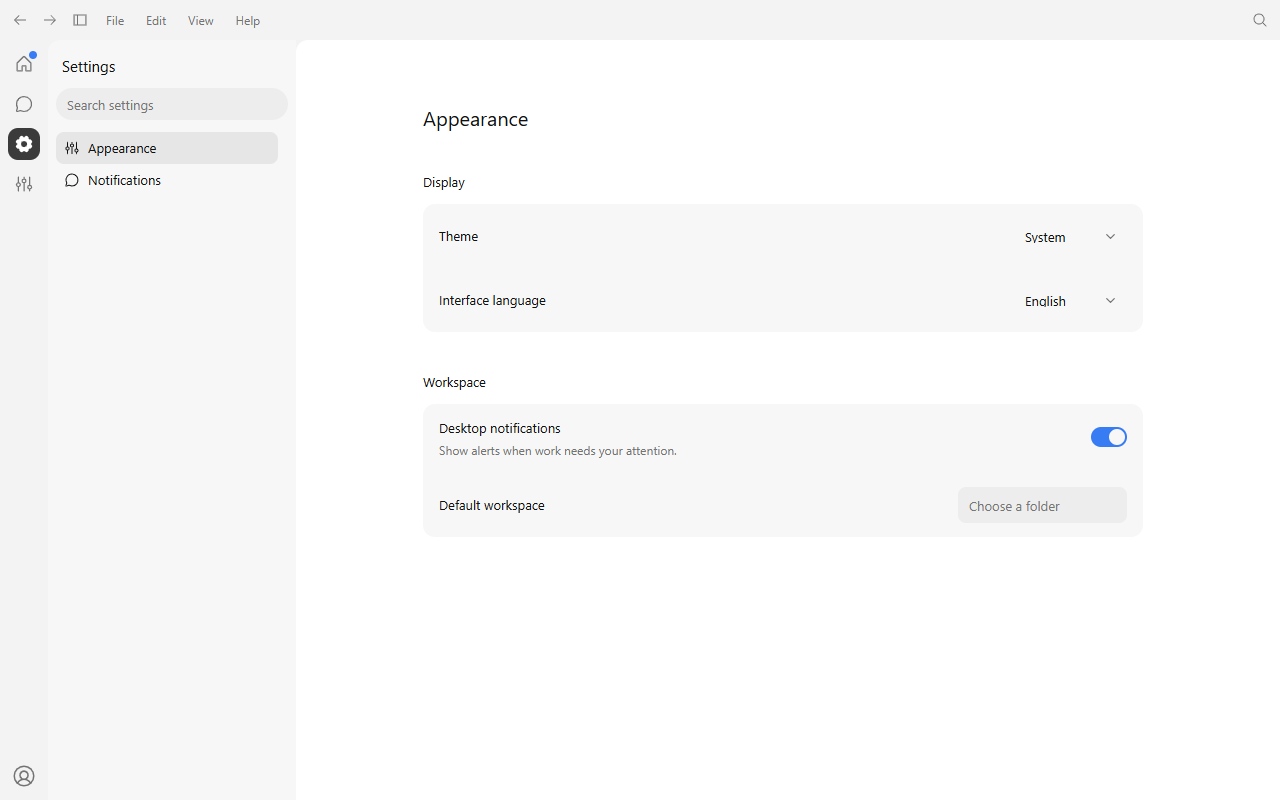
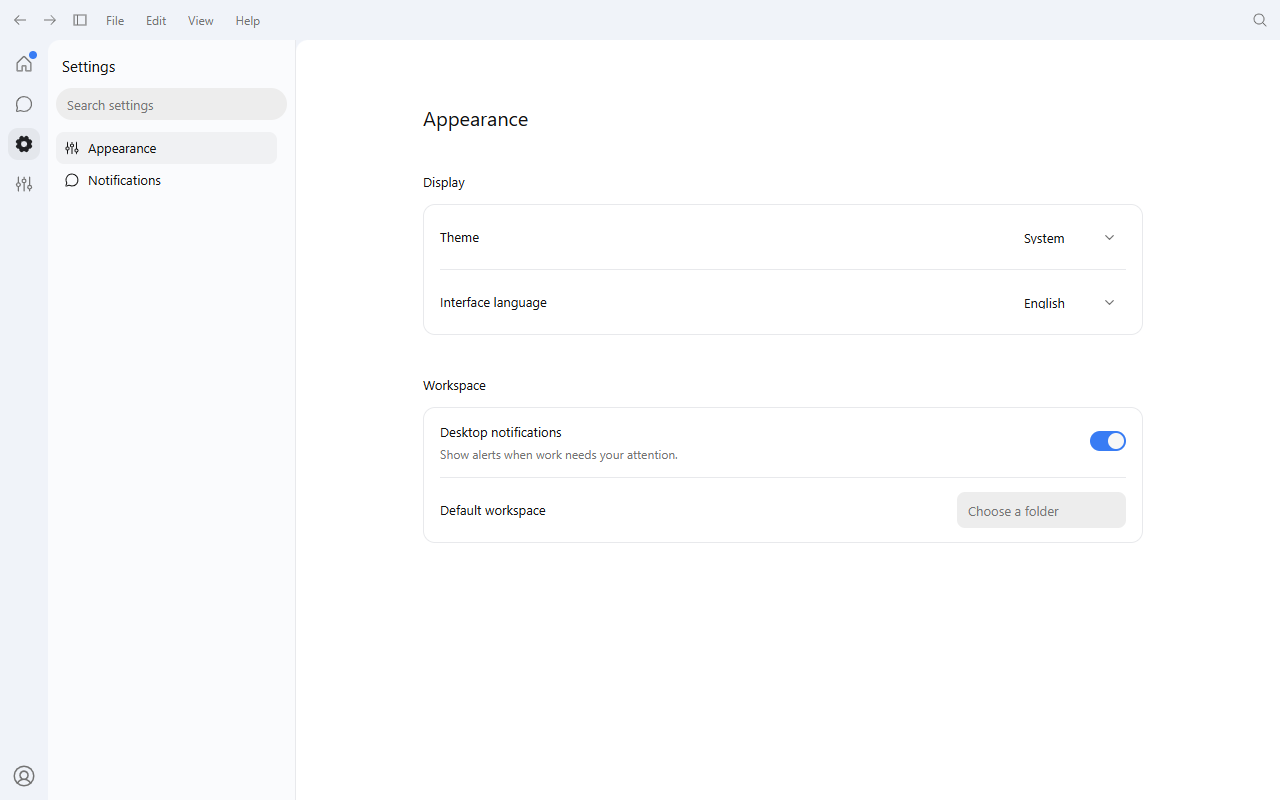
DesktopUI: align light surfaces and conversation geometry
统一亮色层级、浮动面板与聊天布局，使正文和输入区协调一致

【提交类型】
缺陷修复 - 共享视觉规范

【问题描述】
亮色导航对比方式与参考界面不符，浮层边界不清晰，聊天和输入区宽度各自维护。

【原因分析】
1. 直接原因：明暗主题共用了深底选中方案，页面采用不同的阅读宽度。
2. 根本原因：共享规范未明确亮色边界和对话布局。

【修改方案】
以中性语义颜色统一浅色边界、头像外轮廓、导航与浮动组件，统一响应式聊天列并保留中性输入焦点。

【影响评估】
影响一般，覆盖共享控件与三个客户端的主题层级。

【兼容性分析】
保留原有控件接口，新增浮动组件；状态和平台行为仍由 Host 管理。

【需要同时入库的提交】
三个客户端的共享 UI 版本与聊天适配提交。

【自测结果】
1. 隔离源码的类型检查、构建、24 个主题画面、9 项交互与 6 个输入画面验证通过；Skill 资源验证通过。
2. 相关测试通过，自测通过

diff --git a/src/controls.css b/src/controls.css
@@ -69,7 +69,7 @@ html:root,html:root body,html:root body *,html:root body *::before,html:root bod
 .phd-workbench-empty{min-height:calc(100dvh - 180px)}
 .phd-pending-workbench{padding-inline:var(--phd-space-page-inline);padding-bottom:var(--phd-space-page-block)}
 .phd-pending-workbench>.phd-workbench__bar{margin-inline:calc(-1 * var(--phd-space-page-inline))}
-.phd-composer{border:0;border-radius:var(--phd-radius-composer);background:var(--phd-color-surface-muted);color:var(--phd-color-text)}
+.phd-composer{border:1px solid var(--phd-color-panel-boundary);border-radius:var(--phd-radius-composer);background:var(--phd-color-composer);color:var(--phd-color-text);box-shadow:var(--phd-shadow-subtle)}
 .phd-composer:focus-within{box-shadow:none}
 .phd-composer> :first-child{border-top-left-radius:inherit;border-top-right-radius:inherit}
 .phd-composer> :last-child{border-bottom-left-radius:inherit;border-bottom-right-radius:inherit}
@@ -80,6 +80,23 @@ html:root,html:root body,html:root body *,html:root body *::before,html:root bod
 .phd-composer :where(input,textarea,[contenteditable="true"]):focus{box-shadow:none!important}
 :where(div,label,section):has(> :is(input,textarea,[contenteditable="true"]):focus){outline:none!important;border-color:var(--phd-color-border-strong)!important;box-shadow:none!important}
 [data-phd-input-scope]:focus-within{border-color:var(--phd-color-border-strong);box-shadow:none}
-.phd-button.phd-send-control{width:32px;height:32px;padding:0;border-radius:50%;background:var(--phd-color-info);color:var(--phd-color-on-navigation-selected)}
+.phd-button.phd-send-control{width:32px;height:32px;padding:0;border-radius:50%;background:var(--phd-color-info);color:var(--phd-color-on-send)}
 .phd-button.phd-send-control:hover:not(:disabled){background:var(--phd-color-info-hover)}
 @media(max-width:760px){:root{--phd-space-page-inline:16px;--phd-space-page-block:16px}.phd-tool-page-bar{grid-template-columns:minmax(0,1fr) auto;gap:6px}.phd-tool-page-bar__actions{gap:4px}}
+
+/* Light surfaces need a fine boundary where equal white surfaces meet. Dark
+   surfaces keep their established tonal separation. */
+.phd-menu-content,.phd-menu,.phd-select-content,.phd-editable-combobox__content,.phd-dialog,.phd-dialog-surface,.phd-card-surface,.phd-ui-surface,.phd-tooltip{border:1px solid var(--phd-color-panel-boundary)}
+.phd-workbench__bar,.phd-page-toolbar,.phd-tool-page-bar{border-bottom:1px solid var(--phd-color-panel-boundary)}
+.phd-floating-launcher.phd-button{width:40px;height:40px;padding:0;border:1px solid var(--phd-color-panel-boundary);border-radius:var(--phd-radius-overlay);background:var(--phd-color-surface-overlay);color:var(--phd-color-text-subtle);box-shadow:var(--phd-shadow-overlay)}
+.phd-floating-launcher.phd-button:hover{background:var(--phd-color-surface-hover);color:var(--phd-color-text)}
+.phd-floating-launcher svg{width:20px;height:20px}
+.phd-floating-panel{border:1px solid var(--phd-color-panel-boundary);border-radius:var(--phd-radius-overlay);background:var(--phd-color-background);box-shadow:var(--phd-shadow-floating)}
+.phd-floating-panel>header{border-bottom:1px solid var(--phd-color-panel-boundary)}
+.phd-chat-column{width:100%;max-width:var(--phd-size-reading-column);margin-inline:auto;min-width:0}
+.phd-chat-message{padding-inline:0;border-radius:var(--phd-radius-overlay)}
+.phd-chat-message__body{min-width:0;width:100%;padding:8px 12px;border-radius:var(--phd-radius-overlay)}
+.phd-chat-message[data-own=true] .phd-chat-message__body{background:var(--phd-color-chat-own)}
+.phd-chat-time{display:flex;height:24px;align-items:center;justify-content:center;color:var(--phd-color-text-muted);font-size:var(--phd-font-size-caption);line-height:var(--phd-line-height-caption)}
+.phd-chat-time time{border:1px solid var(--phd-color-panel-boundary);border-radius:999px;padding:2px 10px;background:var(--phd-color-surface)}
+[data-slot=avatar]{box-shadow:0 0 0 1px var(--phd-color-avatar-boundary)}

diff --git a/src/tokens.css b/src/tokens.css
@@ -2,12 +2,12 @@
   color-scheme: light;
 
   /* Color primitives */
-  --phd-color-canvas: #f3f3f3;
+  --phd-color-canvas: #f0f3f9;
   --phd-color-background: #ffffff;
   --phd-color-surface: #f7f7f7;
   --phd-color-surface-muted: #ededed;
-  --phd-color-surface-hover: #e6e6e6;
-  --phd-color-surface-selected: #dddddd;
+  --phd-color-surface-hover: #f0f1f3;
+  --phd-color-surface-selected: #edeff1;
   --phd-color-surface-overlay: #ffffff;
   --phd-color-border: #e5e5e5;
   --phd-color-border-strong: #d4d4d4;
@@ -45,8 +45,8 @@
   --phd-color-on-media: #ffffff;
   --phd-color-backdrop: rgb(0 0 0 / 0.32);
   --phd-shadow-subtle: 0 2px 8px rgb(15 23 42 / 0.05);
-  --phd-shadow-overlay: 0 12px 40px rgb(15 23 42 / 0.12);
-  --phd-shadow-floating: 0 20px 70px rgb(15 23 42 / 0.18);
+  --phd-shadow-overlay: 0 4px 14px rgb(0 0 0 / 0.08);
+  --phd-shadow-floating: 0 6px 24px rgb(0 0 0 / 0.08);
   --phd-shadow-side-panel: -12px 0 32px rgb(15 23 42 / 0.1);
 
   /* HSL channels for Tailwind/shadcn consumers */
@@ -59,18 +59,24 @@
   --phd-hsl-focus: 218 90% 59%;
 
   /* Desktop shell hierarchy; all consumers inherit these semantic surfaces. */
-  --phd-color-shell: #f3f3f3;
-  --phd-color-sidebar: #f7f7f7;
-  --phd-color-navigation-selected: #3b3b3b;
-  --phd-color-on-navigation-selected: #ffffff;
+  --phd-color-shell: #f0f3f9;
+  --phd-color-sidebar: #fafbfd;
+  --phd-color-navigation-selected: #e4e7ec;
+  --phd-color-on-navigation-selected: #202123;
   --phd-color-unread: #387cf4;
+  --phd-color-on-send: #ffffff;
   --phd-radius-overlay: 12px;
   --phd-radius-navigation: 10px;
   --phd-space-page-inline: 24px;
   --phd-space-page-block: 20px;
   --phd-size-page-bar: 48px;
-  --phd-size-reading-column: 760px;
+  --phd-size-reading-column: 1120px;
   --phd-size-settings-column: 720px;
+
+  --phd-color-panel-boundary: #e8e9ec;
+  --phd-color-avatar-boundary: #c9cdd3;
+  --phd-color-composer: #ffffff;
+  --phd-color-chat-own: #edeff1;
 
   /* Typography */
   --phd-font-sans: system-ui, sans-serif;
@@ -105,6 +111,10 @@
 }
 
 .dark {
+  --phd-color-panel-boundary: transparent;
+  --phd-color-avatar-boundary: transparent;
+  --phd-color-composer: #2a2a2a;
+  --phd-color-chat-own: #303030;
   color-scheme: dark;
   --phd-color-background: #181818;
   --phd-color-shell: #202123;

diff --git a/src/shell.css b/src/shell.css
@@ -41,3 +41,8 @@
 .kit-avatar:focus-visible,.kit-category:focus-visible,.kit-titlebar__menu:focus-visible{outline:2px solid var(--phd-color-focus);outline-offset:-2px}
 @media(max-width:760px){.kit-sidebar{width:200px}.kit-settings-scroll{padding:32px 16px}.kit-setting-row{gap:12px}.kit-setting-row__control{max-width:160px}}
 @media(prefers-reduced-motion:reduce){*,*::before,*::after{animation-duration:.01ms!important;transition-duration:.01ms!important;scroll-behavior:auto!important}}
+
+.kit-sidebar{border-right:1px solid var(--phd-color-panel-boundary)}
+.kit-settings-section__rows{border:1px solid var(--phd-color-panel-boundary);background:var(--phd-color-background)}
+.kit-setting-row+.kit-setting-row{border-top:1px solid var(--phd-color-panel-boundary)}
+.kit-avatar img{box-shadow:0 0 0 1px var(--phd-color-avatar-boundary)}

diff --git a/src/controls.tsx b/src/controls.tsx
@@ -396,3 +396,11 @@ export function Markdown({ children, components }: { children: string; component
   const phdT = useTranslation();
   return <ReactMarkdown remarkPlugins={[remarkGfm]} components={components}>{children}</ReactMarkdown>;
 }
+
+/** Reusable floating surfaces; positioning and application state belong to the Host. */
+export const FloatingLauncher = forwardRef<HTMLButtonElement, ButtonProps>(function FloatingLauncher({ className, ...props }, ref) {
+  return <Button ref={ref} variant="ghost" className={classes('phd-floating-launcher', className)} {...props} />;
+});
+export const FloatingPanel = forwardRef<HTMLDivElement, HTMLAttributes<HTMLDivElement>>(function FloatingPanel({ className, ...props }, ref) {
+  return <div ref={ref} className={classes('phd-floating-panel', className)} {...props} />;
+});

diff --git a/src/compat/host-shell.css b/src/compat/host-shell.css
@@ -32,3 +32,8 @@
 .phd-setting-row>.phd-select{width:auto;min-width:112px;flex-shrink:0}
 @media(max-width:900px){.phd-settings-sidebar{width:210px}.phd-settings-column{padding:32px 24px}.phd-menubar-trigger.phd-button{padding:0 7px}}
 @media(max-width:640px){.phd-settings-sidebar{width:172px}.phd-settings-column{padding:24px 16px}.phd-chrome-actions{gap:2px}.phd-window-controls{margin-left:0}.phd-window-controls>.phd-button{width:32px}}
+
+.phd-settings-sidebar{border-right:1px solid var(--phd-color-panel-boundary)}
+.phd-setting-row{border:1px solid var(--phd-color-panel-boundary)}
+
+.phd-page-sidebar{border-right:1px solid var(--phd-color-panel-boundary)}

diff --git a/src/icons.ts b/src/icons.ts
@@ -1,4 +1,6 @@
 export {
+  TerminalSquare as AssistantIcon,
+  ArrowUp as SendIcon,
   Bug as BugIcon,
   CircleHelp as HelpIcon,
   ClipboardCheck as ReviewIcon,

diff --git a/docs/DESIGN_SYSTEM.md b/docs/DESIGN_SYSTEM.md
@@ -6,14 +6,15 @@ This specification combines measured screenshot patterns with the originating PH
 
 | Role | Light | Dark | Token |
 | --- | --- | --- | --- |
-| Window shell | #f3f3f3 | #202123 | `--phd-color-shell` |
-| Contextual sidebar | #f7f7f7 | #1c1d1e | `--phd-color-sidebar` |
+| Window shell | #f0f3f9 | #202123 | `--phd-color-shell` |
+| Contextual sidebar | #fafbfd | #1c1d1e | `--phd-color-sidebar` |
 | Main canvas | #ffffff | #181818 | `--phd-color-background` |
-| Grouped settings | #f7f7f7 | #232323 | `--phd-color-surface` |
-| Input/composer | #ededed | #2a2a2a | `--phd-color-surface-muted` |
+| Grouped settings | #fafbfd | #232323 | `--phd-color-surface` |
+| Input | #ededed | #2a2a2a | `--phd-color-surface-muted` |
+| Composer | #ffffff | #2a2a2a | `--phd-color-composer` |
 | Floating menu | #ffffff | #2b2b2b | `--phd-color-surface-overlay` |
-| Hover | #e6e6e6 | #333333 | `--phd-color-surface-hover` |
-| Selected rail | #3b3b3b | #303134 | `--phd-color-navigation-selected` |
+| Hover | #f0f1f3 | #333333 | `--phd-color-surface-hover` |
+| Selected rail | #e4e7ec | #303134 | `--phd-color-navigation-selected` |
 
 Use tokens in application CSS, not the literals from this table. Main canvas, sidebar, groups and floats have distinct surfaces. Neutral grays carry hierarchy; blue carries unread/send and non-text control focus states; danger remains available for business errors. Do not recolor errors blue merely to match unread dots.
 
@@ -26,13 +27,13 @@ Idle buttons and dropdown triggers have no decorative border or fill. The dropdo
 | Window bar | 40px, full width; Back / Forward / Sidebar, then File / Edit / View / Help |
 | Global rail | 48px, fixed; bottom avatar remains reachable |
 | Selected rail tile | 32×32px, 10px radius |
-| Rail icon | 20px; outline idle, white fill selected |
+| Rail icon | 20px; outline idle, dark fill selected in light mode / white fill in dark mode |
 | Unread | 8px blue circle at upper right |
 | Contextual sidebar | 248px desktop; content independently scrolls |
 | Page/action row | 48px, module tabs left, current actions right |
 | Workspace padding | 24px horizontal, 20px vertical; 16px at compact widths |
 | Settings body | maximum 720px, centered in remaining main area |
-| Reading/chat column | maximum 760px; lists/workspaces have no arbitrary page max-width |
+| Reading/chat column | maximum 1120px; lists/workspaces have no arbitrary page max-width |
 | Controls | 8px radius; 36px default, 30px compact button |
 | Menus/dialogs | 12px radius; collision-aware, bounded to viewport |
 
@@ -83,3 +84,9 @@ PHD's special wordmark and chat-sender weights are local exceptions, not general
 Select/Menu portals inherit tokens and close predictably. Dialog supports Escape, backdrop close, focus containment and return to trigger; the consumer intercepts `onClose` to protect drafts. Default `Button` is secondary and `type=button`; explicitly opt into primary and form submit.
 
 Arrow cursors across the standalone desktop document are an explicit originating user preference. Hover/focus/disabled states still signal affordance. Respect a different target user's cursor preference rather than secretly imposing it on unrelated applications.
+
+## Light-theme boundaries and conversation geometry
+
+Light mode uses a cool pale window shell, near-white sidebar and white content. Selected navigation tiles stay pale gray with dark filled icons; dark mode retains white filled icons. Fine neutral outlines separate white overlays, grouped settings and composers. Avatar images have a subtle outline in light mode. Avoid decorative nested frames.
+
+Conversation messages and their composer share one responsive reading column (maximum 1120px). Use compact centered time markers, regular sender labels and a neutral own-message surface. Keep long messages, code and attachments readable without widening the viewport. Shared floating launcher and panel primitives own color, border, radius and shadow; Hosts own placement and state.

diff --git a/docs/DESIGN_GUIDANCE.md b/docs/DESIGN_GUIDANCE.md
@@ -13,3 +13,9 @@ Apply shared components first; business CSS handles only layout and domain state
 Inspect actual rendered screens side by side with references at the same viewport. Check rail geometry, header height, content width, baseline alignment, menu padding and font weight before details such as animation. Check hovered, selected, disabled and focused states. Open menus near each edge; check long labels, long lists, loading, real failures and failed avatar loading.
 
 When a fidelity detail conflicts with existing functionality, preserve the functionality and adapt its presentation. Do not add fake native controls, replace history behavior with page guesses, clear drafts on theme change, hide errors or break a host-mounted Tool's lifecycle. Explain measured limitations instead of claiming pixel perfection from only one screenshot.
+
+## Light-theme boundaries and conversation geometry
+
+Light mode uses a cool pale window shell, near-white sidebar and white content. Selected navigation tiles stay pale gray with dark filled icons; dark mode retains white filled icons. Fine neutral outlines separate white overlays, grouped settings and composers. Avatar images have a subtle outline in light mode. Avoid decorative nested frames.
+
+Conversation messages and their composer share one responsive reading column (maximum 1120px). Use compact centered time markers, regular sender labels and a neutral own-message surface. Keep long messages, code and attachments readable without widening the viewport. Shared floating launcher and panel primitives own color, border, radius and shadow; Hosts own placement and state.
